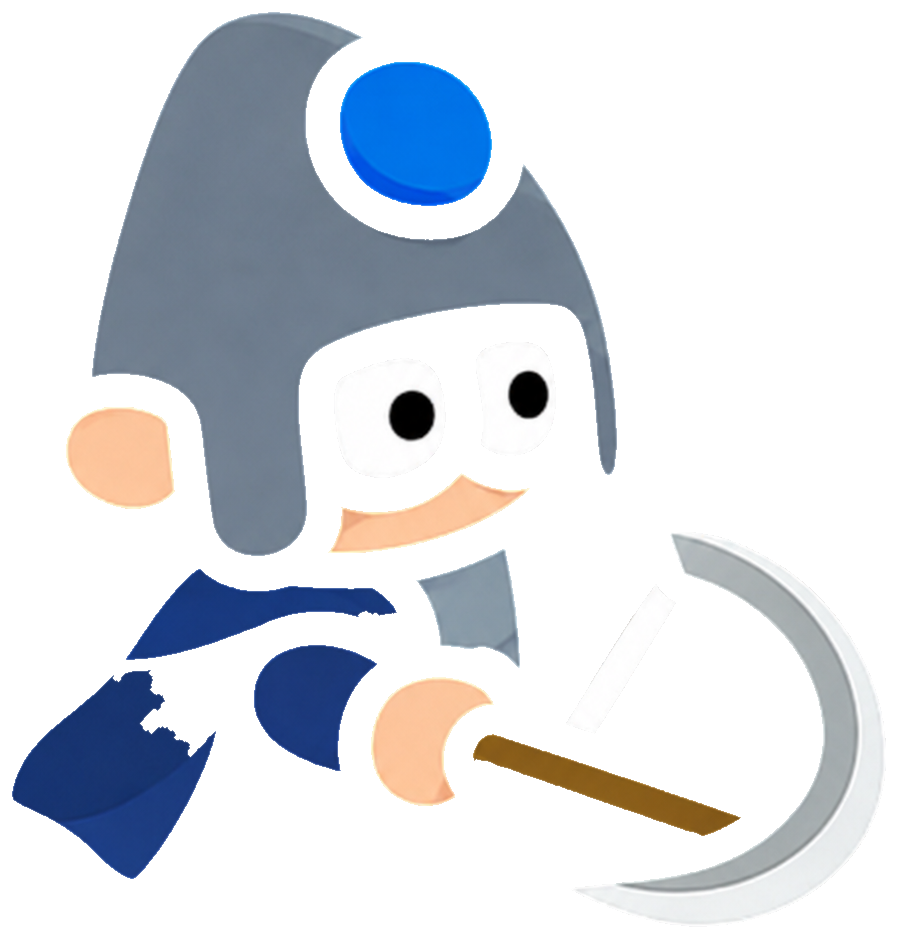
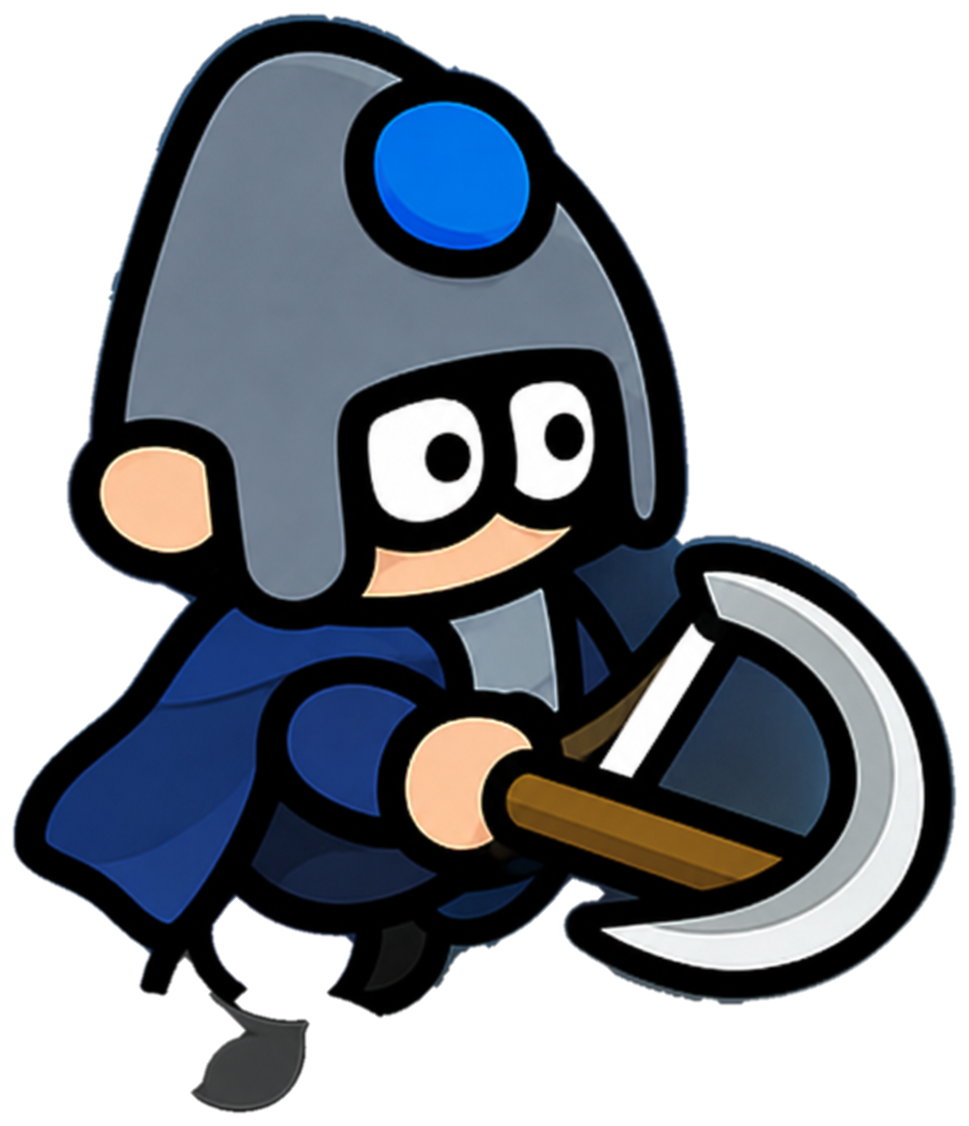
신규 8명 영웅 lobby portrait 배경 제거 + portraitBig 등록
- bg_remove_portrait.py v2: high-pass(BG_BLUR_SIGMA=120 가우시안 잔차 기반)
  → 캐릭터 outline/interior 100% 보존, halo gradient만 컷
- 8개 lobby_*.png 생성 (healer_grandpa/assassin_bakso/archer_oneshot/warrior_bandit/
  warrior_dark/tank_dandan/mage_dark/mage_bomber)
- 각 HEROES def에 portraitBig + portraitBigSize + portraitBigScale 필드 추가
- preload에 8개 lobby image() 등록

diff --git a/game.js b/game.js
@@ -373,6 +373,7 @@ const HEROES = {
     },
     portraitSheet: 'hero_mage_dark_idle', portraitSheetFrame: 0,
     portraitSheetSize: { w: 141, h: 209 }, portraitScale: 1,
+    portraitBig: 'lobby_mage_dark', portraitBigSize: { w: 1054, h: 1080 }, portraitBigScale: 0.65,
     quotes: ['심연이 부른다.', '검은 줄기여...', '그림자가 깊다.',
              '소멸하라.', '어둠은 모든 곳에 있다.', '빛은 거짓이다.'],
     animKeys: {
@@ -400,6 +401,7 @@ const HEROES = {
     },
     portraitSheet: 'hero_mage_bomber_idle', portraitSheetFrame: 0,
     portraitSheetSize: { w: 145, h: 165 }, portraitScale: 1,
+    portraitBig: 'lobby_mage_bomber', portraitBigSize: { w: 916, h: 1074 }, portraitBigScale: 0.63,
     quotes: ['폭탄이다! 폭탄!', '빵! 빵빵빵!', '심지에 불 붙였어!',
              '아 이 냄새~', '한 번만 더... 안 돼 두 번 더!', '폭탄 좀 더 없나?'],
     animKeys: {
@@ -425,6 +427,7 @@ const HEROES = {
     },
     portraitSheet: 'hero_archer_oneshot_idle', portraitSheetFrame: 0,
     portraitSheetSize: { w: 133, h: 201 }, portraitScale: 1,
+    portraitBig: 'lobby_archer_oneshot', portraitBigSize: { w: 969, h: 1126 }, portraitBigScale: 0.63,
     quotes: ['...조준 완료.', '한 발, 한 명.', '숨 멈추고...',
              '관통한다.', '명중률 100%.', '놓치지 않아.'],
     animKeys: {
@@ -452,6 +455,7 @@ const HEROES = {
     goldPerHit: 1,
     portraitSheet: 'hero_warrior_bandit_idle', portraitSheetFrame: 0,
     portraitSheetSize: { w: 143, h: 176 }, portraitScale: 1,
+    portraitBig: 'lobby_warrior_bandit', portraitBigSize: { w: 904, h: 956 }, portraitBigScale: 0.62,
     quotes: ['한 푼만 줍쇼!', '오늘 수입 어떨까~', '돈 되겠는데?',
              '치킨이 사라지면 안 돼!', '여기도 동전, 저기도 동전!', '한탕 하자!'],
     animKeys: {
@@ -477,6 +481,7 @@ const HEROES = {
     },
     portraitSheet: 'hero_warrior_dark_idle', portraitSheetFrame: 0,
     portraitSheetSize: { w: 145, h: 217 }, portraitScale: 1,
+    portraitBig: 'lobby_warrior_dark', portraitBigSize: { w: 952, h: 1148 }, portraitBigScale: 0.65,
     quotes: ['어둠이 너를 삼킨다.', '...침묵하라.', '비키지 않으면 베어내겠다.',
              '두려워하라.', '쓸어버린다.', '내 길에 서지 마라.'],
     animKeys: {
@@ -503,6 +508,7 @@ const HEROES = {
     },
     portraitSheet: 'hero_healer_grandpa_idle', portraitSheetFrame: 0,
     portraitSheetSize: { w: 142, h: 184 }, portraitScale: 1,
+    portraitBig: 'lobby_healer_grandpa', portraitBigSize: { w: 943, h: 1177 }, portraitBigScale: 0.62,
     quotes: ['아이고, 잠깐 가만있어봐.', '할애비가 고쳐주마.', '약 드시고 가셔!',
              '에구구... 다친 사람 어딨노.', '이거 한 방이면 끄떡없어!', '뼈에 좋은 거여.'],
     animKeys: {
@@ -527,6 +533,7 @@ const HEROES = {
     tauntRange: 78,
     portraitSheet: 'hero_tank_dandan_idle', portraitSheetFrame: 0,
     portraitSheetSize: { w: 150, h: 203 }, portraitScale: 1,
+    portraitBig: 'lobby_tank_dandan', portraitBigSize: { w: 1078, h: 1097 }, portraitBigScale: 0.65,
     quotes: ['딴딴해!', '나에게 와라!', '꿈쩍도 안 한다!',
              '여기 있다, 이놈들아!', '내가 막는다.', '뚫어보시지!'],
     animKeys: {
@@ -551,6 +558,7 @@ const HEROES = {
     dashTrail: true,      // chase 중 잔상 ghost spawn
     portraitSheet: 'hero_assassin_bakso_idle', portraitSheetFrame: 0,
     portraitSheetSize: { w: 219, h: 230 }, portraitScale: 1,
+    portraitBig: 'lobby_assassin_bakso', portraitBigSize: { w: 1016, h: 1175 }, portraitBigScale: 0.62,
     quotes: ['바람보다 빠르게!', '눈깜빡할 새에...', '슈웅!',
              '잡았다.', '여긴가, 저긴가!', '내 칼이 보였나?'],
     animKeys: {
@@ -865,6 +873,15 @@ function preload() {
   this.load.image('lobby_warrior', 'assets/lobby_warrior.png');
   this.load.image('lobby_archer', 'assets/lobby_archer.png');
   this.load.image('lobby_mage', 'assets/lobby_mage.png');
+  // 신규 8명 lobby portrait — high-pass BG 제거 (bg_remove_portrait v2)
+  this.load.image('lobby_healer_grandpa', 'assets/lobby_healer_grandpa.png');
+  this.load.image('lobby_assassin_bakso', 'assets/lobby_assassin_bakso.png');
+  this.load.image('lobby_archer_oneshot', 'assets/lobby_archer_oneshot.png');
+  this.load.image('lobby_warrior_bandit', 'assets/lobby_warrior_bandit.png');
+  this.load.image('lobby_warrior_dark',   'assets/lobby_warrior_dark.png');
+  this.load.image('lobby_tank_dandan',    'assets/lobby_tank_dandan.png');
+  this.load.image('lobby_mage_dark',      'assets/lobby_mage_dark.png');
+  this.load.image('lobby_mage_bomber',    'assets/lobby_mage_bomber.png');
   // 스테이지 돌파 보상 (StageReward) UI 자산
   this.load.image('sr_chest',         'assets/ui/sr_chest.png');         // HUD 진입 버튼
   // Stage Reward 패널 자산 — Layer Lab Reward_Roadmap prefab 실제 sprite들

diff --git a/_tools/bg_remove_portrait.py b/_tools/bg_remove_portrait.py
@@ -1,49 +1,54 @@
-"""다크 비네트 BG 인물 포트레이트 배경 제거 (high-pass 방식).
+"""다크 비네트 BG 인물 포트레이트 배경 제거 (high-pass + alpha matting).
 
 전략:
-  1) 배경은 부드러운 radial gradient → heavy gaussian blur로 BG estimate.
-  2) 원본과 BG estimate 사이 잔차(residual)가 크면 캐릭터 (sharp edge/color contrast),
-     작으면 배경 (gradient에 부합).
-  3) residual mask → closing + fill holes로 캐릭터 silhouette 완성.
-  4) 캐릭터 silhouette 안=alpha 1, 밖=alpha 0. 가장자리 gaussian feather.
-  5) 색상은 원본 그대로 유지 (caracter outline + interior 손상 없음).
+  - BG는 부드러운 radial gradient → heavy gaussian blur로 estimate.
+  - 원본과 BG estimate 사이 잔차(residual)가 크면 캐릭터 (sharp edge/color contrast).
+  - residual mask → closing + fill holes → 캐릭터 silhouette.
+  - silhouette 내부의 캐릭터 픽셀 그대로 보존 (outline + 내부 색상 절대 손상 없음).
 
-usage: python bg_remove_portrait.py <src> <dst>
+usage:
+  python bg_remove_portrait.py <src> <dst>             # default params
+  python bg_remove_portrait.py <src> <dst> <res_thr>   # 잔차 임계값 조정
 """
 import sys
 import numpy as np
 from PIL import Image
 from scipy.ndimage import (
-    binary_closing, binary_dilation, binary_fill_holes, gaussian_filter, label,
+    binary_closing, binary_dilation, binary_fill_holes,
+    binary_erosion, gaussian_filter, label,
 )
 
-BG_BLUR_SIGMA = 40        # bg estimate용 heavy blur
-RES_THRESH = 18           # 잔차 임계값 — 이보다 크면 캐릭터
-CLOSE_ITER = 6            # 캐릭터 mask 내부 작은 구멍 메우기
-EDGE_FEATHER_SIGMA = 0.8  # 외곽 안티앨리어스
+BG_BLUR_SIGMA = 120       # 매우 큰 sigma — vignette+halo 전체 부드럽게 평균
+DEFAULT_RES_THRESH = 30   # 색 거리 임계 — 캐릭터(sharp)만 잡고 halo gradient는 컷
+CLOSE_ITER = 10
+EXPAND_ITER = 3
+FEATHER_SIGMA = 1.2
 PAD = 14
 
 
-def remove_bg(src_path: str, dst_path: str) -> None:
+def remove_bg(src_path: str, dst_path: str, res_thresh: int = DEFAULT_RES_THRESH) -> None:
     img = Image.open(src_path).convert('RGB')
     arr = np.array(img).astype(np.float32)
     h, w = arr.shape[:2]
 
-    # 1) BG estimate = heavy gaussian blur of original (smooth gradient 보존)
-    gray = arr.mean(axis=-1)
-    bg_estimate = gaussian_filter(gray, sigma=BG_BLUR_SIGMA)
+    # 1) BG estimate = heavy blur of each channel
+    bg_r = gaussian_filter(arr[..., 0], sigma=BG_BLUR_SIGMA)
+    bg_g = gaussian_filter(arr[..., 1], sigma=BG_BLUR_SIGMA)
+    bg_b = gaussian_filter(arr[..., 2], sigma=BG_BLUR_SIGMA)
+    bg = np.stack([bg_r, bg_g, bg_b], axis=-1)
 
-    # 2) residual = sharp deviation from smooth bg → 캐릭터 픽셀
-    residual = np.abs(gray - bg_estimate)
+    # 2) residual: 원본과 부드러운 BG의 색 차이. 색 거리(L2)로 측정.
+    diff = arr - bg
+    residual = np.sqrt((diff ** 2).sum(axis=-1))
 
-    # 캐릭터 후보 mask: 잔차가 임계값 이상
-    char = residual > RES_THRESH
+    # 3) 캐릭터 후보 = residual > threshold
+    char = residual > res_thresh
 
-    # 3) closing + fill holes → 캐릭터 내부의 단조로운 색 구역(잔차 낮음)까지 채움
+    # 4) closing + fill holes → 캐릭터 내부 균일색 영역까지 silhouette에 흡수
     char = binary_closing(char, iterations=CLOSE_ITER)
     char = binary_fill_holes(char)
 
-    # 가장 큰 컴포넌트 선택 + 같은 등급 작은 컴포넌트 흡수
+    # 가장 큰 컴포넌트 + (main의 1/30 이상 크기 컴포넌트들) 흡수
     lab, n = label(char)
     if n == 0:
         print(f'{src_path}: no character found')
@@ -57,18 +62,23 @@ def remove_bg(src_path: str, dst_path: str) -> None:
         if sizes[lbl] >= keep_threshold:
             main |= (lab == lbl)
 
-    # 4) alpha: 캐릭터 mask 안=1, 밖=0, feather
+    # 5) silhouette 살짝 확장 — 캐릭터 외곽선 픽셀이 잔차 임계치 직전이라 빠질 수 있음
+    main = binary_dilation(main, iterations=EXPAND_ITER)
+    main = binary_fill_holes(main)
+
+    # 6) alpha = main mask, 외곽 feather
     alpha = main.astype(np.float32)
-    alpha = gaussian_filter(alpha, sigma=EDGE_FEATHER_SIGMA)
-    # 캐릭터 밖에서 너무 멀리 퍼진 부분 컷 (살짝 dilate 후 그 밖은 무조건 0)
-    safe_zone = binary_dilation(main, iterations=2)
-    alpha[~safe_zone] = 0.0
+    alpha = gaussian_filter(alpha, sigma=FEATHER_SIGMA)
+    # 외곽으로 너무 퍼진 부분 컷 — safe_zone = main을 살짝 더 dilate
+    safe = binary_dilation(main, iterations=2)
+    alpha[~safe] = 0.0
     alpha = np.clip(alpha, 0.0, 1.0)
 
-    # 5) 색상은 원본 그대로
+    # 7) 색상은 원본 그대로 (outline + 내부 손상 없음)
     fg_color = arr.astype(np.uint8)
     rgba = np.dstack([fg_color, (alpha * 255).astype(np.uint8)])
 
+    # crop with padding
     ys, xs = np.where(main)
     y0, y1 = max(0, ys.min() - PAD), min(h, ys.max() + PAD + 1)
     x0, x1 = max(0, xs.min() - PAD), min(w, xs.max() + PAD + 1)
@@ -78,4 +88,5 @@ def remove_bg(src_path: str, dst_path: str) -> None:
 
 
 if __name__ == '__main__':
-    remove_bg(sys.argv[1], sys.argv[2])
+    thr = int(sys.argv[3]) if len(sys.argv) > 3 else DEFAULT_RES_THRESH
+    remove_bg(sys.argv[1], sys.argv[2], thr)
